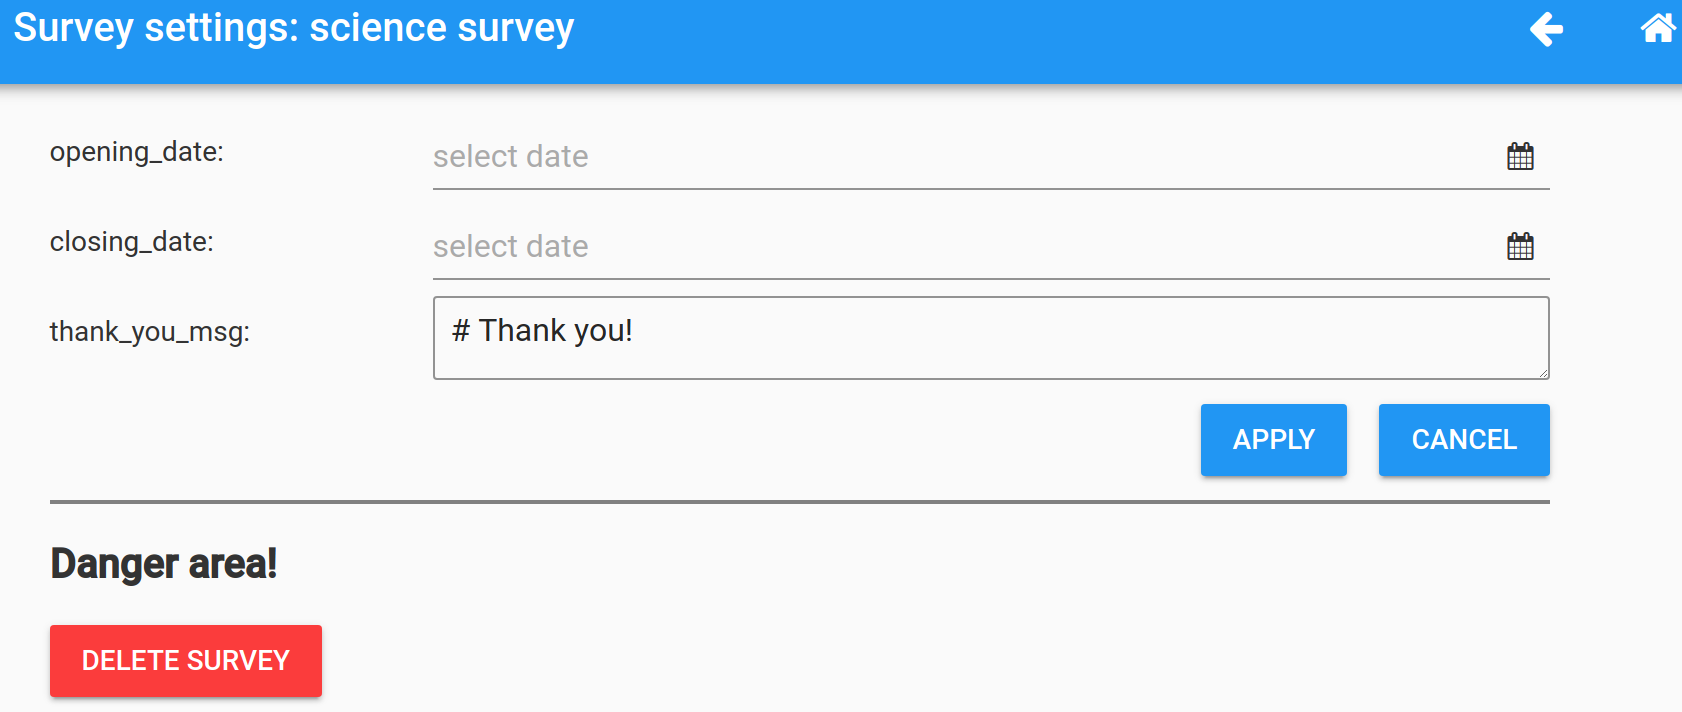
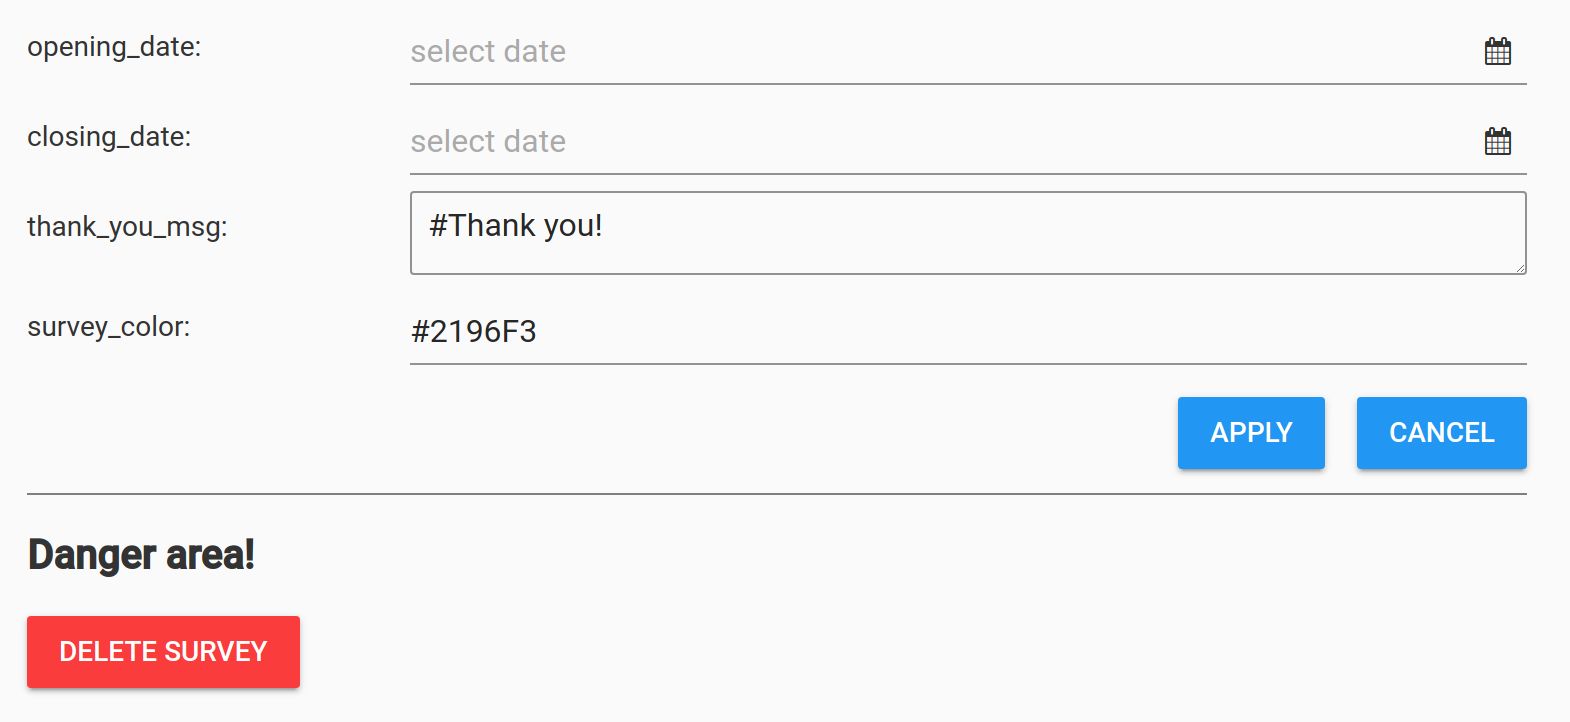
more docs

diff --git a/docs/docs/advanced.md b/docs/docs/advanced.md
@@ -59,137 +59,145 @@ In general, the survey `dict` is a nested, somewhat self-similar structure. For 
 ??? example "Simple survey (click)"
     ```python
     my_survey={
-    "title": "simple survey",
-    "widgets": [
-    {
-      "id": 0,
-      "type": "section",
-      "logic": None,
-      "title": "section",
+      "title": "simple survey",
+      "settings": {
+      "survey_color": "#2196F3",
+      "thank_you_msg": "#Thank you!"
+      },
+      "num_widgets": 2,
       "widgets": [
         {
-          "id": 1,
-          "type": "text_box",
+          "id": 0,
+          "type": "section",
           "logic": None,
-          "title": "what's your name?",
-          "number": False,
-          "mandatory": True,
-          "placeholder": "placeholder here"
+          "title": "section",
+          "widgets": [
+            {
+              "id": 1,
+              "type": "text_box",
+              "logic": None,
+              "title": "what's your name?",
+              "number": False,
+              "mandatory": True,
+              "placeholder": "placeholder here"
+            }
+          ]
         }
       ]
-    }
-    ],
-    "num_widgets": 2
     }
     ```
     
 ??? example "A more complex survey (click)"
     ```python
-    {
-    "title": "science survey",
-    "widgets": [
-    {
-      "id": 0,
-      "type": "section",
-      "logic": None,
-      "title": "About you",
+    my_survey={
+      "title": "science survey",
+      "settings": {
+      "survey_color": "#2196F3",
+      "thank_you_msg": "#Thank you!"
+      },
+      "num_widgets": 22,
       "widgets": [
         {
-          "id": 1,
-          "text": "This is a survey about **you** and **science**.\n\nFor more information about science click [here](https://en.wikipedia.org/wiki/Science).\n\n- these \n- are \n- bullets\n\nThis is scientifically proven to be the cutest image:\n\n<img src=\"https://i.imgur.com/gPb2phg.gif\" width=\"191\" height=\"200\">\n\n",
-          "type": "markdown",
+          "id": 0,
+          "type": "section",
           "logic": None,
-          "title": "",
-          "placeholder": "markdown supported"
+          "title": "About you",
+          "widgets": [
+            {
+              "id": 1,
+              "text": "This is a survey about **you** and **science**.\n\nFor more information about science click [here](https://en.wikipedia.org/wiki/Science).\n\n- these \n- are \n- bullets\n\nThis is scientifically proven to be the cutest image:\n\n<img src=\"https://i.imgur.com/gPb2phg.gif\" width=\"191\" height=\"200\">\n\n",
+              "type": "markdown",
+              "logic": None,
+              "title": "",
+              "placeholder": "markdown supported"
+            },
+            {
+              "id": 2,
+              "type": "text_box",
+              "logic": None,
+              "title": "What is your name?",
+              "number": False,
+              "mandatory": False,
+              "placeholder": "name goes here"
+            },
+            {
+              "id": 7,
+              "type": "date",
+              "logic": None,
+              "title": "What is your date of birth?",
+              "format": "%Y-%m-%d",
+              "mandatory": False,
+              "placeholder": "date goes here"
+            },
+            {
+              "id": 3,
+              "type": "text_area",
+              "logic": None,
+              "title": "Tell me about yourself",
+              "placeholder": "text goes here"
+            },
+            {
+              "id": 4,
+              "type": "drop_down",
+              "logic": None,
+              "title": "What is your highest completed educational level?",
+              "options": "high school diploma\ncollege diploma or university degree\nI have do not have a high school diploma",
+              "mandatory": True,
+              "placeholder": "select from here"
+            },
+            {
+              "id": 11,
+              "type": "radio_button",
+              "logic": None,
+              "title": "Are you interested in science?",
+              "options": "Yes\nNo"
+            }
+          ]
         },
         {
-          "id": 2,
-          "type": "text_box",
+          "id": 5,
+          "type": "section",
           "logic": None,
-          "title": "What is your name?",
-          "number": False,
-          "mandatory": False,
-          "placeholder": "name goes here"
-        },
-        {
-          "id": 7,
-          "type": "date",
-          "logic": None,
-          "title": "What is your date of birth?",
-          "format": "%Y-%m-%d",
-          "mandatory": False,
-          "placeholder": "date goes here"
-        },
-        {
-          "id": 3,
-          "type": "text_area",
-          "logic": None,
-          "title": "Tell me about yourself",
-          "placeholder": "text goes here"
-        },
-        {
-          "id": 4,
-          "type": "drop_down",
-          "logic": None,
-          "title": "What is your highest completed educational level?",
-          "options": "high school diploma\ncollege diploma or university degree\nI have do not have a high school diploma",
-          "mandatory": True,
-          "placeholder": "select from here"
-        },
-        {
-          "id": 11,
-          "type": "radio_button",
-          "logic": None,
-          "title": "Are you interested in science?",
-          "options": "Yes\nNo"
+          "title": "About you and science",
+          "widgets": [
+            {
+              "id": 8,
+              "type": "check_box",
+              "logic": None,
+              "title": "Which scientific topics are you interested in? (check all that apply)",
+              "options": "mathematics\ngeography\ndata science\nstatistics\nphysics\nneuroscience"
+            },
+            {
+              "labels": "not satisfied\nmeh\nvery satisfied",
+              "min_val": "0",
+              "value": "50",
+              "type": "slider",
+              "title": "How satisfied were you with your last science course? ",
+              "id": 10,
+              "logic": None,
+              "step": "1",
+              "max_val": "100"
+            },
+            {
+              "id": 12,
+              "type": "text_area",
+              "logic": {
+                "func": "any",
+                "conditions": [
+                  {
+                    "id": 10,
+                    "title": "How satisfied were you with your last science course? ",
+                    "value": 40,
+                    "comparison": "<"
+                  }
+                ]
+              },
+              "title": "In your opinion, what would improve science education?",
+              "placeholder": "Explain here"
+            }
+          ]
         }
       ]
-    },
-    {
-      "id": 5,
-      "type": "section",
-      "logic": None,
-      "title": "About you and science",
-      "widgets": [
-        {
-          "id": 8,
-          "type": "check_box",
-          "logic": None,
-          "title": "Which scientific topics are you interested in? (check all that apply)",
-          "options": "mathematics\ngeography\ndata science\nstatistics\nphysics\nneuroscience"
-        },
-        {
-          "labels": "not satisfied\nmeh\nvery satisfied",
-          "min_val": "0",
-          "value": "50",
-          "type": "slider",
-          "title": "How satisfied were you with your last science course? ",
-          "id": 10,
-          "logic": None,
-          "step": "1",
-          "max_val": "100"
-        },
-        {
-          "id": 12,
-          "type": "text_area",
-          "logic": {
-            "func": "any",
-            "conditions": [
-              {
-                "id": 10,
-                "title": "How satisfied were you with your last science course? ",
-                "value": 40,
-                "comparison": "<"
-              }
-            ]
-          },
-          "title": "In your opinion, what would improve science education?",
-          "placeholder": "Explain here"
-        }
-      ]
-    }
-    ],
-    "num_widgets": 22
     }
     ```
 
@@ -209,7 +217,6 @@ The Surveys table has the following columns:
 - _submissions_: A CSV [media object](https://anvil.works/docs/media) which accumulates submissions
 - _opening_date_: A Python datetime object for an opening date
 - _closing_date_: A Python datetime object for an closing date
-- _thank_you_msg_: A string of Markdown text for the thank you message
 
 ### Adding a survey
 The following example demonstrates how to programatically add a survey to the Surveys table.
@@ -219,6 +226,11 @@ from anvil.tables import app_tables
 
 my_survey={
   "title": "simple survey",
+  "settings": {
+  "survey_color": "#2196F3",
+  "thank_you_msg": "#Thank you!"
+  },
+  "num_widgets": 2,
   "widgets": [
     {
       "id": 0,
@@ -237,8 +249,7 @@ my_survey={
         }
       ]
     }
-  ],
-  "num_widgets": 2
+  ]
 }
 
 app_tables.surveys.add_row(
@@ -247,8 +258,7 @@ app_tables.surveys.add_row(
     schema=my_survey, # A Python dictionary following OpenQuestion's expected format
     submissions=None,
     opening_date=None,
-    closing_date=None,
-    thank_you_msg='# Thank you!') # Markdown goes here
+    closing_date=None)
 ```
 
 ### Deleting a survey

diff --git a/docs/docs/faq.md b/docs/docs/faq.md
@@ -56,5 +56,33 @@ tools that do this far better than OpenQuestion ever could 😃.
 For example, please see [Altair](https://altair-viz.github.io/), 
 [Jupyter](https://jupyterlab.readthedocs.io/en/stable/), and [Deepnote](https://deepnote.com/).
 
-# Can I change the color of my survey?
-#2196F3, #1976D2
+## Can I change the color of a survey?
+Yes, please see [this part](settings.md#survey-color) of the settings page.
+
+## Can I change the default authentication services (for admins)?
+Survey developers must authenticate into OpenQuestion. Various authentication options are available 
+and can be configured by editing the file "anvil.yaml" located at the top level of OpenQuestion.
+Inside that file you will see the following section:
+
+```yaml
+  client_config: {allow_signup: false, enable_automatically: false, use_email: true,
+    confirm_email: false, use_microsoft: true, require_secure_passwords: true}
+```
+
+By default, OpenQuestion includes the entries `use_email: true` and `use_microsoft: true` (described below).
+You can remove these entries or set them to `false` if you would like to remove them as 
+authentication options in OpenQuestion. The available authentication options are as follows:
+
+- `use_email: true/false`. Authenticate with an email address and password. 
+    Developers have to be added as registered users as described 
+    [here](installation.md#adding-developers-and-administrators-as-users)
+- `use_microsoft: true/false`. Authenticate with Microsoft.
+- `use_google: true/false`. Authenticate with Google.
+- `use_facebook: true/false`. Authenticate with Facebook.
+- `use_token: true/false`. Users sign in by following a link in their email.
+    Developers have to be added as registered users as described 
+    [here](installation.md#adding-developers-and-administrators-as-users)
+
+For more information on the above options in OpenQuestion, please see Anvil's documentation on
+[authentication](https://anvil.works/docs/users/authentication_choices.html). 
+

diff --git a/docs/docs/settings.md b/docs/docs/settings.md
@@ -16,6 +16,10 @@ corresponding field.
 The text area allows you to write markdown to express a "thank you message".
 The message will appear after the survey has been submitted by the user.
 
+## Survey color
+You can change the main color of the end user's survey by entering a hex code (e.g., #2196F3)
+This will not affect the color in the survey designer.
+
 ## Deleting a survey
 The big red button allows a survey to be deleted. A confirmation
 dialogue will pop up just to be safe.
